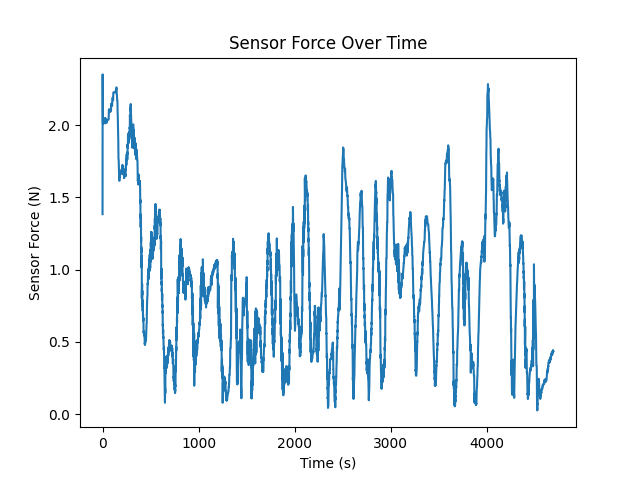
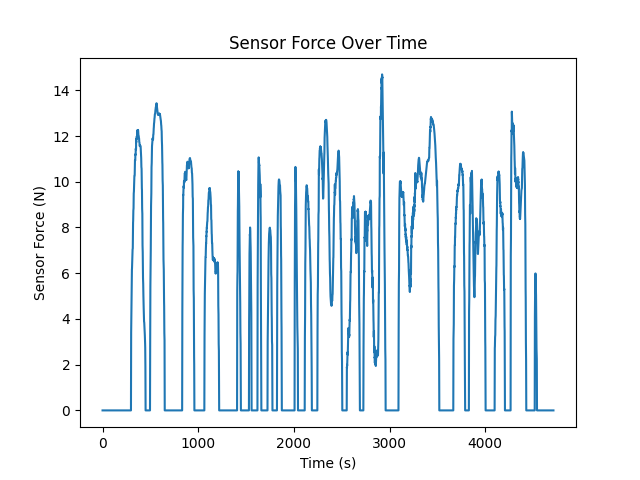
update

diff --git a/command_links.py b/command_links.py
@@ -106,7 +106,7 @@ OFFSET = np.array([-0.03, -0.22, 0]) """
 # Edward's transform
 R_corr = R.from_euler("xy", [-15,-13], degrees=True)
 SCALE  = 1.0            
-OFFSET = np.array([0.2,0,-0.035])
+OFFSET = np.array([0.19,0,-0.035])
 for col in poses:
     # transform every position
     poses[col]["pos"] = [
@@ -168,22 +168,20 @@ while viewer.is_running() and row < len(df):
         mujoco.mj_step(model, data)
     sim_t = data.time
 
-    fx, fy, fz = data.sensordata[sensor_id:sensor_id+3]
-    sensor_forces.append(np.linalg.norm([fx, fy, fz]))
+    f = data.sensordata[sensor_id]
+    sensor_forces.append(f)
     time_plt.append(sim_t)
-    if row%50 == 0:
-        print(fx, fy, fz)
 
     viewer.sync()
     time.sleep(0.01)
 
     
-    if row % 100 == 0:
+    """if row % 100 == 0:
         for tracker, body_id in TRAKSTAR_TO_BID.items():
             p_des = poses[tracker]['pos'][tgt_row]
             p_cur = data.xpos[body_id]
           #  print(f"{tracker}: p_des = {p_des}, p_cur = {p_cur}")
-            print(p_des == p_cur)
+            print(p_des == p_cur)"""
     
 viewer.close()
 plt.plot(range(len(sensor_forces)), sensor_forces)
